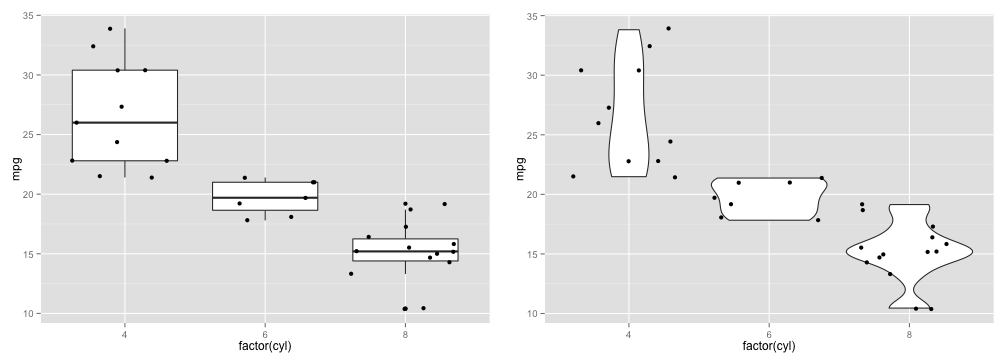
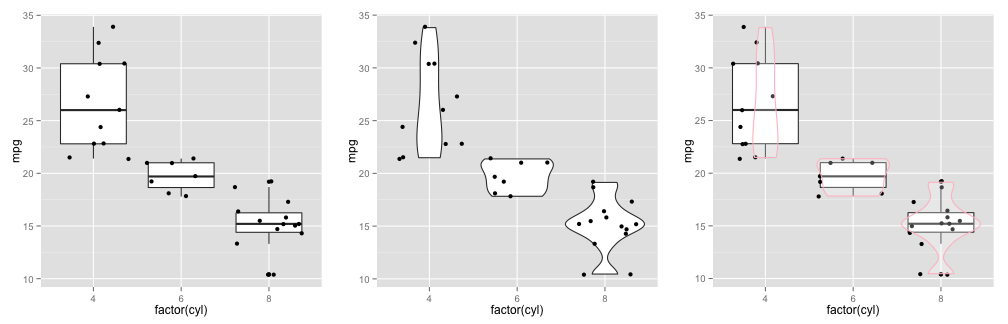
Tweak boxplots

diff --git a/Ggplot2Talk/index.html b/Ggplot2Talk/index.html
@@ -513,8 +513,9 @@ p + geom_boxplot()
   </hgroup>
   <article>
     <pre><code class="r">p1 &lt;- p + geom_boxplot() + geom_jitter()
-p2 &lt;- p + geom_violin() + geom_jitter(height = 0)
-grid.arrange(p1, p2, ncol = 2)
+p2 &lt;- p + geom_violin() + geom_jitter()
+p3 &lt;- p1 + geom_violin(alpha = 0.25, colour = &quot;pink&quot;)
+grid.arrange(p1, p2, p3, ncol = 3)
 </code></pre>
 
 <p><img src="figure/unnamed-chunk-18.png" alt="plot of chunk unnamed-chunk-18"> </p>
@@ -1088,6 +1089,20 @@ grid.arrange(p1, p2, p3, ncol = 3)
 <script src="http://ajax.aspnetcdn.com/ajax/jQuery/jquery-1.7.min.js"></script>
 <script>window.jQuery || document.write('<script src="libraries/widgets/quiz/js/jquery-1.7.min.js"><\/script>')</script>
 <!-- Load Javascripts for Widgets -->
+<!-- MathJax: Fall back to local if CDN offline but local image fonts are not supported (saves >100MB) -->
+<script type="text/x-mathjax-config">
+  MathJax.Hub.Config({
+    tex2jax: {
+      inlineMath: [['$','$'], ['\\(','\\)']],
+      processEscapes: true
+    }
+  });
+</script>
+<script type="text/javascript" src="http://cdn.mathjax.org/mathjax/2.0-latest/MathJax.js?config=TeX-AMS-MML_HTMLorMML"></script>
+<!-- <script src="https://c328740.ssl.cf1.rackcdn.com/mathjax/2.0-latest/MathJax.js?config=TeX-AMS-MML_HTMLorMML">
+</script> -->
+<script>window.MathJax || document.write('<script type="text/x-mathjax-config">MathJax.Hub.Config({"HTML-CSS":{imageFont:null}});<\/script><script src="libraries/widgets/mathjax/MathJax.js?config=TeX-AMS-MML_HTMLorMML"><\/script>')
+</script>
 <!-- LOAD HIGHLIGHTER JS FILES -->
 <script src="libraries/highlighters/highlight.js/highlight.pack.js"></script>
 <script>hljs.initHighlightingOnLoad();</script>

diff --git a/Ggplot2Talk/index.md b/Ggplot2Talk/index.md
@@ -9,7 +9,7 @@ license     : by-nc-sa
 framework   : io2012        # {io2012, html5slides, shower, dzslides, ...}
 highlighter : highlight.js  # {highlight.js, prettify, highlight}
 hitheme     : tomorrow      # 
-widgets     : []            # {mathjax, quiz, bootstrap}
+widgets     : [mathjax]            # {mathjax, quiz, bootstrap}
 mode        : selfcontained # {selfcontained, standalone, draft}
 
 --- 
@@ -332,8 +332,9 @@ p + geom_boxplot()
 
 ```r
 p1 <- p + geom_boxplot() + geom_jitter()
-p2 <- p + geom_violin() + geom_jitter(height = 0)
-grid.arrange(p1, p2, ncol = 2)
+p2 <- p + geom_violin() + geom_jitter()
+p3 <- p1 + geom_violin(alpha = 0.25, colour = "pink")
+grid.arrange(p1, p2, p3, ncol = 3)
 ```
 
 ![plot of chunk unnamed-chunk-18](figure/unnamed-chunk-18.png) 
